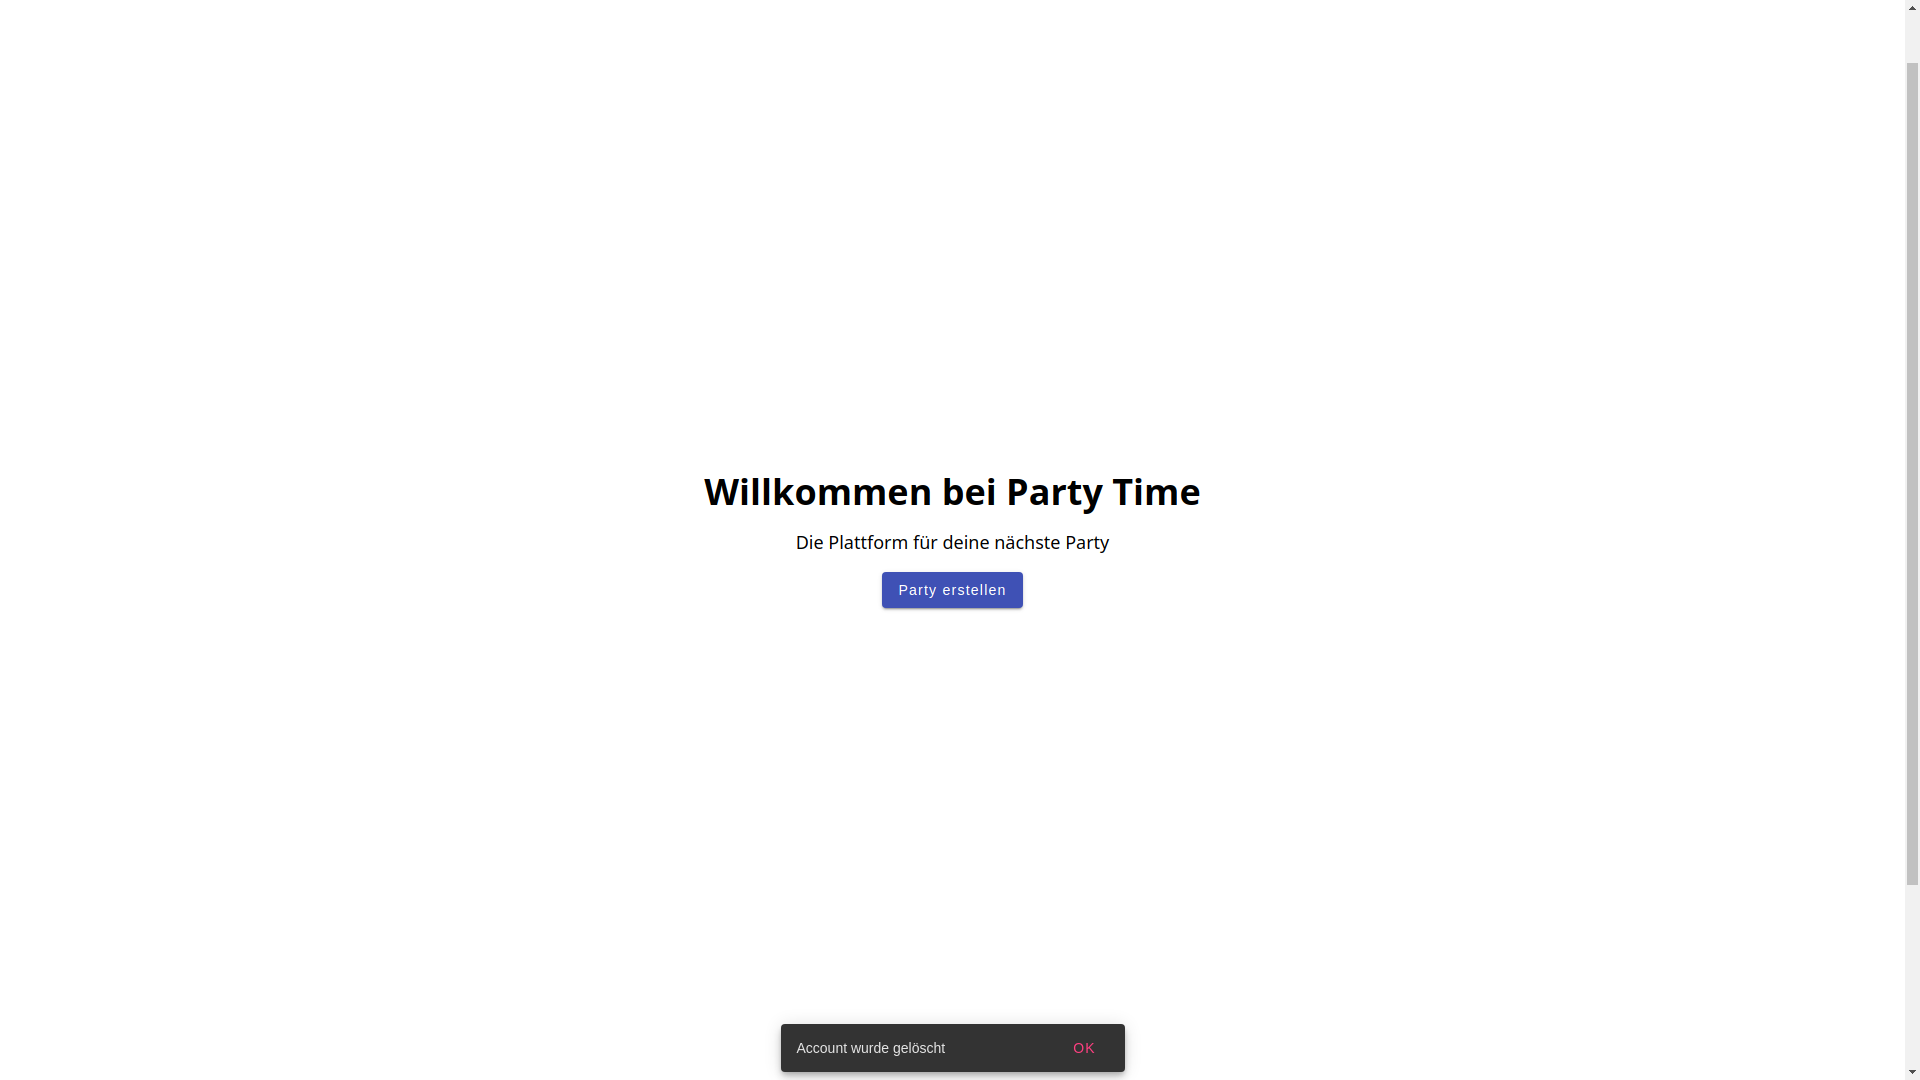
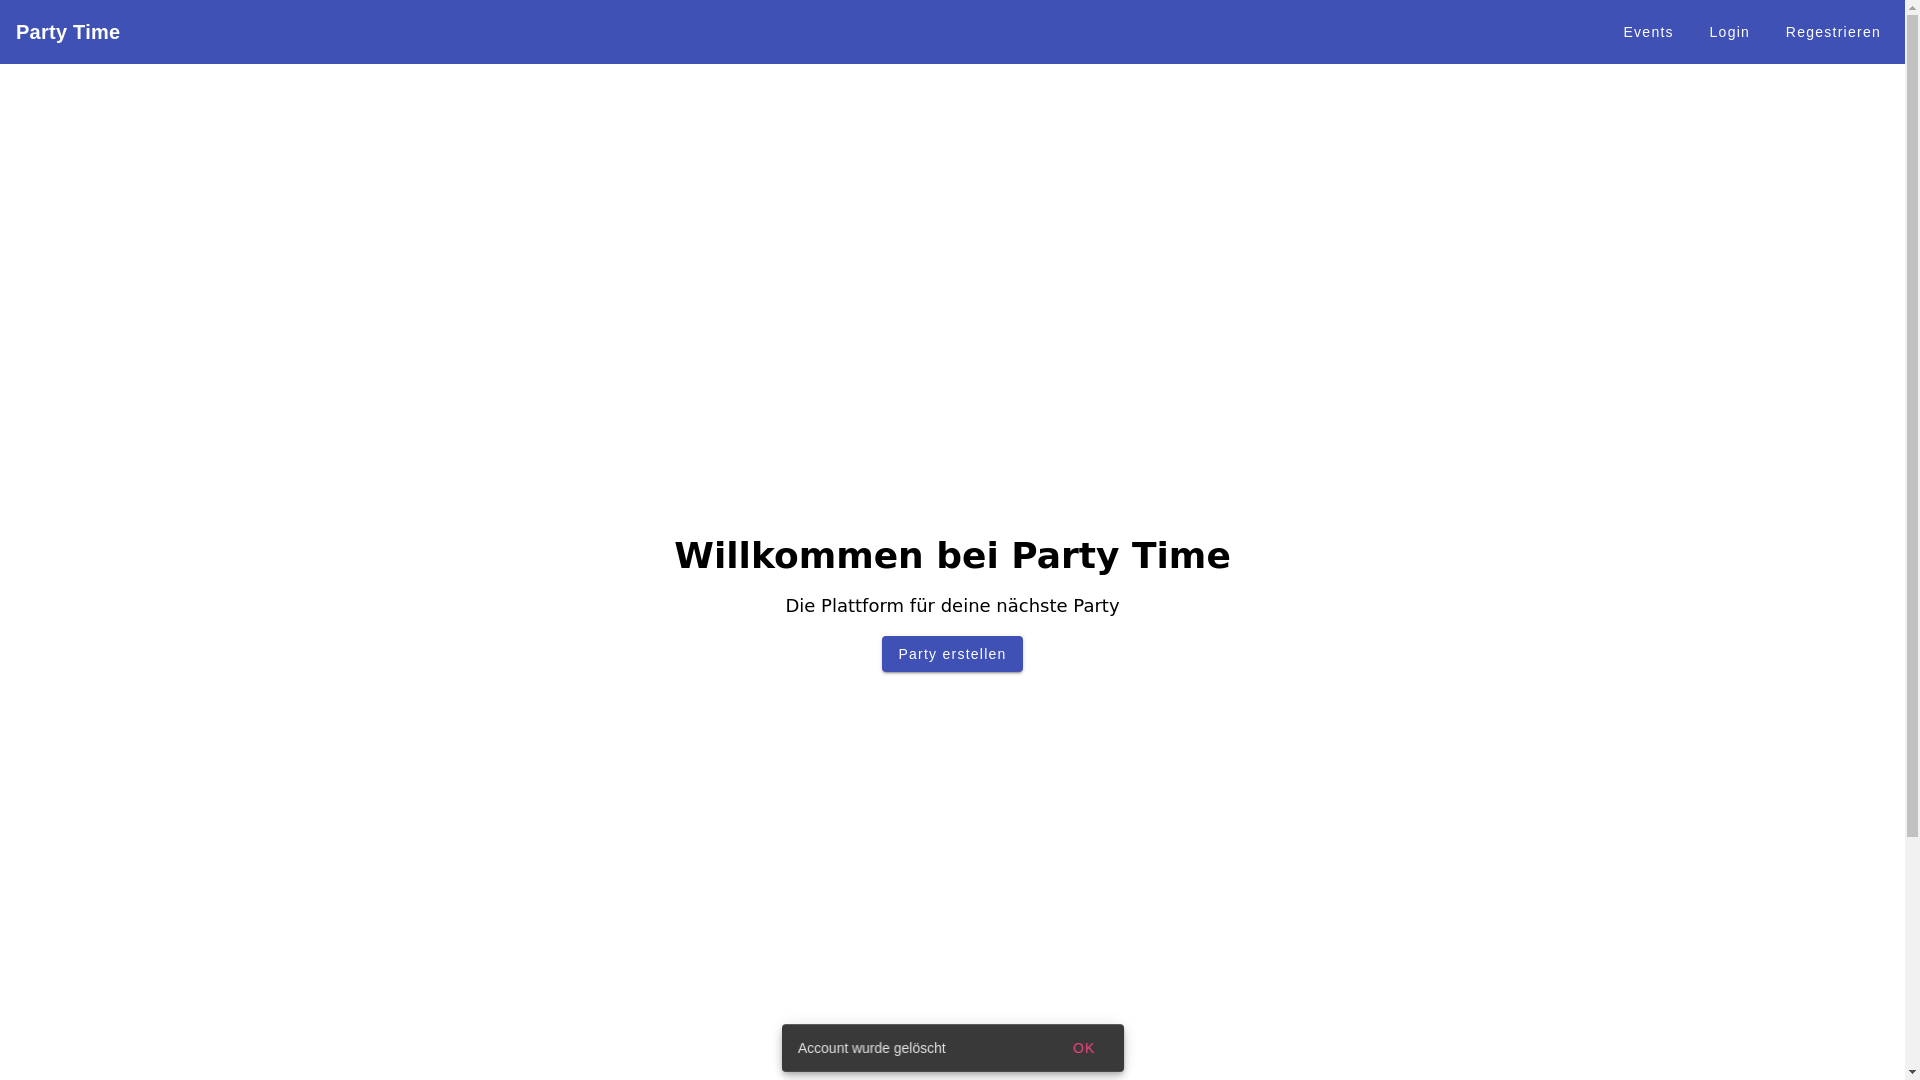
fix for f015

diff --git a/apps/party-time-frontend-17/-e2e/src/e2e/F015.cy.ts b/apps/party-time-frontend-17/-e2e/src/e2e/F015.cy.ts
@@ -13,6 +13,7 @@ describe(deleteAccount, () => {
     'Benutzer sollten in der Lage sein, ihr Konto durch Ausfüllen eines Formulars auf der Plattform zu löschen.';
   it(accountDeletionSuccessTest, () => {
     cy.get('[data-cy="password-input"]').type('Hallo123!party');
+    cy.scrollTo('top');
     cy.screenshot(getScreenshotPath(requirement, deleteAccount, '1'), {
       overwrite: true,
       capture: 'viewport',
@@ -25,6 +26,7 @@ describe(deleteAccount, () => {
     cy.get('[data-cy="delete-account-button"]').click();
     // eslint-disable-next-line cypress/no-unnecessary-waiting
     cy.wait(300);
+    cy.scrollTo('top');
     cy.screenshot(getScreenshotPath(requirement, deleteAccount, '2'), {
       overwrite: true,
       capture: 'viewport',
